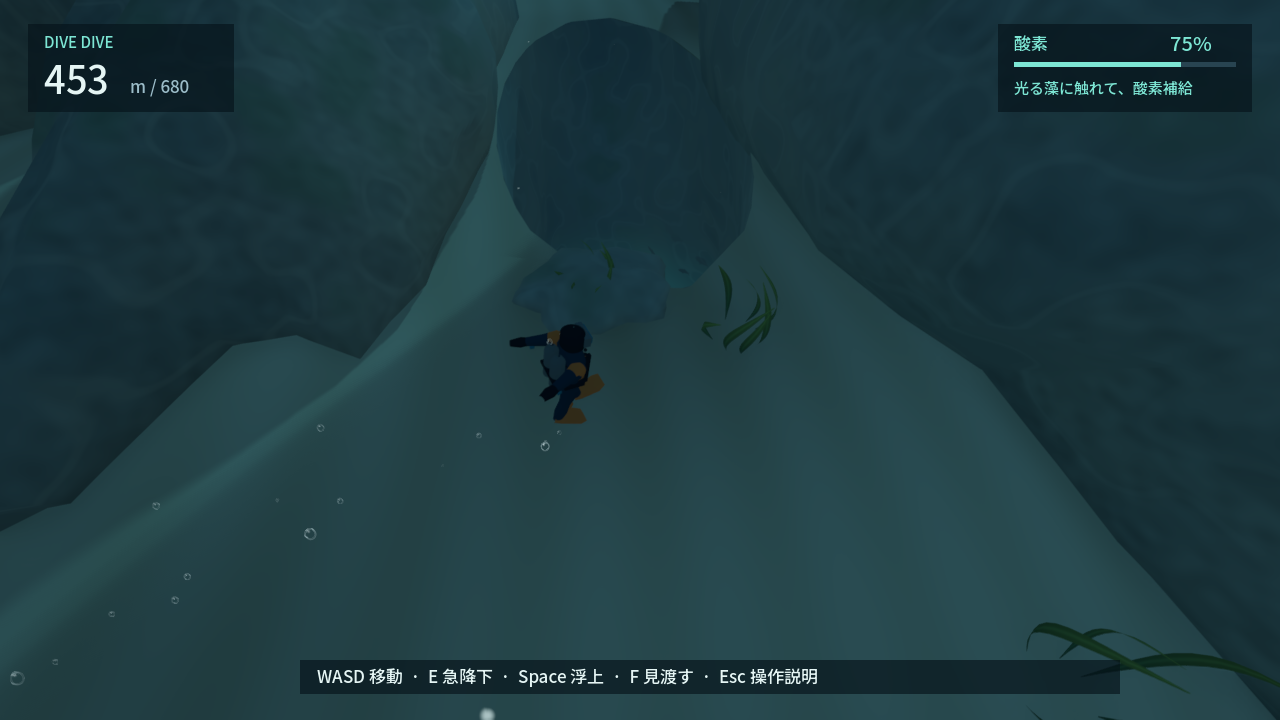
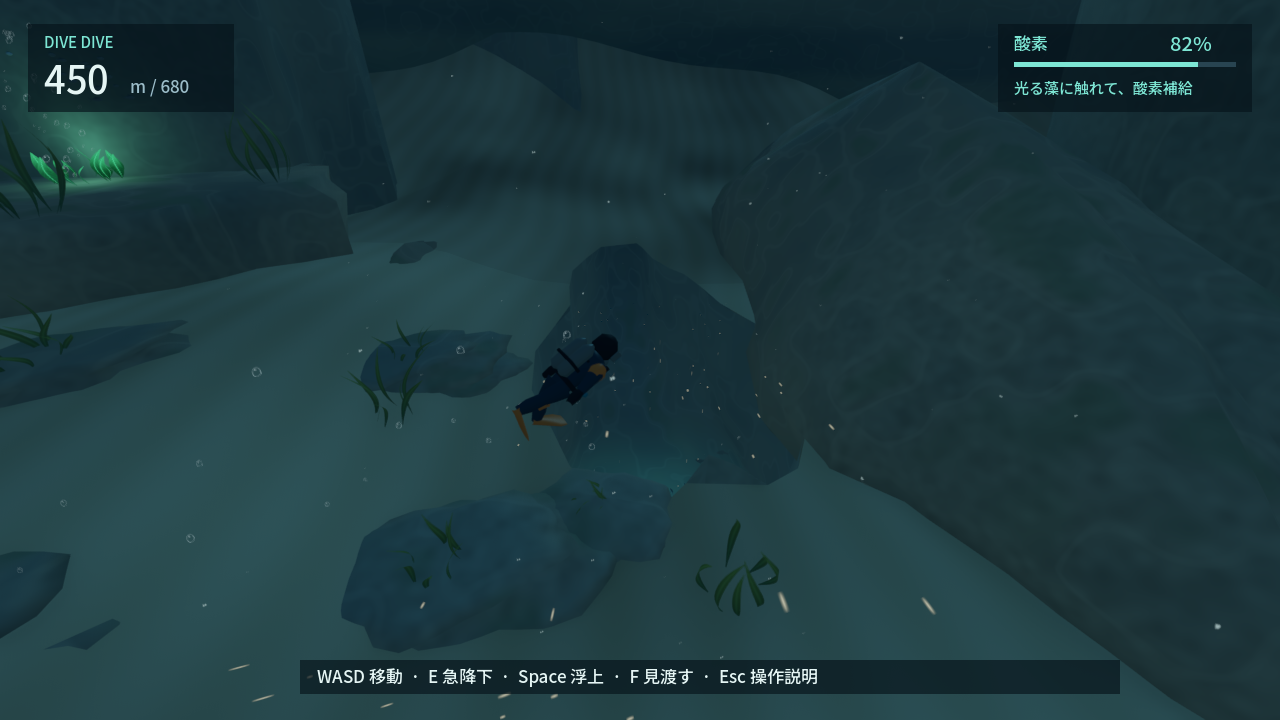
Connect L1 cliff shelves and reveal shallow destinations and seabed flow

diff --git a/projects/001-first-release/REVIEW_PACKET.md b/projects/001-first-release/REVIEW_PACKET.md
@@ -1,29 +1,38 @@
-> 最新L1試作では岩橋・断層・盆地・潮流を変更。以下の保存画像は撮影元commit時点の参考です。今回の画面確認は非追跡artifactsの3視点のみ。依頼されたフェーズの画像を次回置き換えます。
-
 # DIVE DIVE — REVIEW PACKET
 
-**対象: L1-P0〜L1-G / L2-P0〜P2の圧縮試作。CHANGES / 定期再開PAUSED。** 人間レビュー要求ではない。計画と現行位置は[PROJECT_STATE](PROJECT_STATE.md)、全体構成は[HUMAN_DIRECTION](HUMAN_DIRECTION.md)。
+**L1-P1〜L1-Gの指定試作 / CHANGES / 定期再開PAUSED**。HUMAN_REVIEWへの提出ではありません。
 
-## 現行代表画像（今回の整理で新規撮影はしていない）
+## 今回の6枚
 
-| 対象 | 画像 | 撮影元・条件 |
+この文書と同じ制作コミットのForward+（RTX 4070 SUPER）、1280×720。基準版bd57759から変更。すべてゲームの通常三人称カメラ/FOV76、俯瞰F・専用撮影カメラなし。マウスで可能なyaw/pitchの見回しを固定した再現撮影です。
+
+| 対象 | 画面 | 実深度・撮影条件 |
 | --- | --- | --- |
-| L1-P0 | [入水](review/L1-P0/entry.png) | ef64c2a制作サイクルのForward+。通常入力/5m・pitch=-.35。最新撮り直しではない |
-| L1-P1 | [浅海の海底棚](review/L1-P1/middle.png) | fa172a9制作サイクル。比較用位置から実入力で移動・見回した画面 |
-| L1-G | [裂け目への接近](review/L1-G/entry.png) | 00612b2制作サイクル。約450m補給地点を開始位置に設定し、その後実入力で到達/見回し |
-| L2-P0 | [狭い暗闇](review/L2-P0/middle.png) | 同上、約527m。水球と近い岩盤 |
-| L2-P2 | [初遭遇](review/L2-P2/entry.png) | 同上、約645m。暗闇の腕/胴体 |
+| L1-P1 | [入水直後](review/L1-P1/entry.png) | 4m、桟橋から入力移動、yaw0 / pitch-.25 |
+| L1-P1 | [次の場所](review/L1-P1/middle.png) | 26m、同じ入水から継続、yaw-.2 / pitch-.25 |
+| L1-P2 | [断層と上下の棚](review/L1-P2/entry.png) | 約160m、局所開始→遊泳、yaw.65 / pitch-.42 |
+| L1-P2 | [岸壁の棚の内側](review/L1-P2/middle.png) | 190m、局所開始→棚へ着地、yaw-.7 / pitch-.3 |
+| L1-P4 | [海底の流れ](review/L1-P4/entry.png) | 約448m、局所開始→砂地を横断、yaw-.65 / pitch-.25 |
+| L1-G | [割れ目へ接近](review/L1-G/entry.png) | 約450m、海底から継続、yaw0 / pitch-.55 |
 
-各フェーズの2〜4枚セットが揃ったという意味ではない。L1-P2/P3/P4とL2-P1単独の現行代表画像は未選定。必要な確認依頼が来た時だけ、指定フェーズの入口/中間/出口/問題を用意する。
+P1入水は区分境界より浅いが、ユーザー指定の「入水後すぐ」の画面として収録。P2/P4の局所開始は位置を設定後、同じプレイヤーphysicsで操作。6枚を海面からの無編集連続プレイとは扱わない。
 
-## 次回の確認方法
+## 何を選ぶ場所か
 
-通常開発は撮影なし。依頼された対象だけ2〜4枚を `review/<ID>/entry.png` などへ保存し、修正後は同名へ置換する。撮影commit・実深度・入力/カメラ条件をこの表へ更新。過去比較と連続画像はGit履歴（整理前は00612b2）で確認できる。
+- 浅海: 魚群が横切る岩窓をくぐる／右の光る藻へ寄る／泡やクラゲのいる低い裂け目を見る。岩窓は実際に通り抜けられる。
+- 岸壁: 上の藻の棚へ浮上する／中段で岸壁の外縁を歩く／その下を泳ぐ。中段を大きな岩体に埋めた案は修正。既存足場の長い円錐状の底も短くし、棚の間を開けた。
+- 海底: 低い露出岩盤と海藻の間を横断し、砂粒が運ばれる方向を追う。丸い管口から不規則な割れ目へ。潮は入口へ寄せて内部で下降し、Spaceで戻れる。
 
-現在はL1の自由→収束と、L2の狭い暗闇→解放→生物の予兆を評価する。経路数・物量・完走だけで品質を認定しない。旧画像は回帰テストの入力ではなく、撮影用テスト本体は保持している。
+## 再現
 
-## 直近のゲーム検証と懸念
+`./dev.ps1 visual-l1 -Capture p1-entry,p1-choice,p2-coast,p2-inside`
 
-00612b2: 桟橋から実入力199.5秒、途中位置設定/救助なし。新区間35確認、既存衝突689・11経路・check/build・CI成功。GPUは画面外・無音・非捕捉。[自己批評](AI_REVIEW.md)。
+`./dev.ps1 visual-l1 -Capture p4-seabed,g-crevice`
 
-L1の岩の大面、L1-G〜L2-P0の管状輪郭、L2-P2のタコの仮モデル感は未解消。予兆の聴感・初見の導線は未評価。第2層全体/ボス戦は未実装。
+出力は非追跡artifacts/l1-views、必要な6枚を上表の固定名へ置換。旧P0/L2画像3枚は参照をここから外して削除、旧P1/Gは置換。Git履歴が旧版の正本。
+
+## 自己批評
+
+見える穴・棚の間を実際に通れる点と、砂が隙間へ流れる方向は改善。一方、大岩体の面の単純さ、浅海のアーチの作り物らしさ、遠くからゲートを発見する難しさは残る。砂の方向は静止画より動いている時に分かる。操作成功から面白さの合格は宣言しない。
+
+検証: 対象入力11、L1操作21、実衝突689、岸壁179、全体200.7秒/biology35成功。lint/既存回帰/経路評価/Windows build・export起動成功。対象コミットのCIはGitHub Actionsを参照。

diff --git a/projects/001-first-release/PROJECT_STATE.md b/projects/001-first-release/PROJECT_STATE.md
@@ -6,7 +6,7 @@
 
 ## 現在遊べる範囲
 
-海上→32mの岩盤・段丘→浅海の岩橋を歩く/下の湾を潮流で抜ける→80〜110mの浅い海底と谷→160mから断層/隆起した岸壁→約450mの窪んだ砂の海底→一つの岩の隙間→曲がる暗い狭路→約585mで巨大空間へ→タコとの遭遇→約680mの水球まで。同じシーン内で繋がる。第2層全体やボス戦は作っていない。
+海上→魚群が横切る岩窓・右の藻・下の裂け目が見える32mの岩盤→浅海の岩橋を歩く/下の湾を潮流で抜ける→80〜110mの浅い海底と谷→160mから断層/隆起した岸壁→約450mの窪んだ砂の海底→一つの岩の隙間→曲がる暗い狭路→約585mで巨大空間へ→タコとの遭遇→約680mの水球まで。同じシーン内で繋がる。第2層全体やボス戦は作っていない。
 
 水球は通過可能で触れると即補給。自然沈降5m/s、E15m/s・酸素2.5倍、Space6m/s、水平7m/s。酸素0の救助は訪問済みの浅い安全地点へ戻る。水球帰還後も泳ぎ続けられ、見えない足場は作らない。
 
@@ -20,10 +20,10 @@
 | --- | --- | --- |
 | L1-P0 | 海上〜約30m・実装あり | 入水の第一印象 |
 | L1-P1 | 約30〜160m・岩橋/下側の湾と潮流を試作 | 人工的な角張り、寄り道の第一印象 |
-| L1-P2 | 約160〜330m・断層/隆起を追加 | 大形状の自然さと既存岸壁への馴染み |
-| L1-P3 | 約330〜450m・厚い断層を重ねた圧縮試作 | 深部の独立した景観変化は未完成 |
-| L1-P4 | 約450〜457m・周辺が上がる盆地へ | 海底へ到達した印象、最深の裂け目の自然な見え方 |
-| L1-G | 約457〜478m・入口へ寄せる流れと下降流 | 岩盤の自然さ、砂の流れの質 |
+| L1-P2 | 約160〜330m・岸壁に接続する上下の棚とその間の遊泳 | 大形状の自然さと既存岸壁への馴染み |
+| L1-P3 | 約330〜450m・隆起へ上/下の岩床を接続 | 深部の独立した景観変化は未完成 |
+| L1-P4 | 約450〜457m・盆地、低い露出岩盤、床を運ばれる砂 | 海底へ到達した印象、最深の裂け目の自然な見え方 |
+| L1-G | 約457〜478m・不規則な割れ目、流入する砂と下降流 | 岩盤の自然さ、砂の流れの質 |
 | L2-P0 | 約478〜585m・暗い曲がる狭路 | 管状反復、水球の間合い |
 | L2-P1 | 約585〜620m・巨大空間へ | 解放感と遠い予兆 |
 | L2-P2 | 約620〜680m・タコ遭遇試作 | 均一な腕/仮モデル、段階的認識 |
@@ -33,9 +33,9 @@
 
 ## 検証と管理
 
-今回のL1試作: 岩橋の上を歩く/下を潮流で抜ける、断層・隆起、盆地の最深部へ収束する砂地と流入する潮流。通常/Eの実着地、潮流への参加/離脱、Spaceで裂け目から戻る対象21確認成功。海面から生物層終端まで200.7秒、途中位置変更/救助/ロードなし、biology 35確認成功。既存岸壁179確認も成功。lint・依存確認、ルール/シーン/実衝突/既存探索/経路評価も成功（失敗箇所の修正後は関連試験だけ再実行）。Windows exportと配布EXEのheadless起動成功。最初の形状案で歩行路/潮流出口を塞いだため、根元を沖へ移し、出口の侵食された輪郭を残した。
+今回（DD-086）: 浅海の岩窓/魚群、多段の岸壁と足場の接続、海底の露出岩盤/床沿いの砂粒、割れ目の縁を更新。新規入力11確認、既存L1操作21、岸壁179、実衝突689成功。海面から生物層終端まで200.7秒、途中位置変更/救助/ロードなし、biology35成功。既存ルール567/シーン457/岩面2688/探索等、経路評価/復帰も成功。lint、Windows export、配布EXE headless起動成功。上段が下段を覆うため試走は外縁を回る入力へ更新し、頭上を塞いだ厚みは修正。検証を通すためのすり抜けは入れていない。
 
-内部GPU確認はL1-P1/P3/Gの3視点だけ。同じ一時ファイルを上書きし、repoへ画像を追加蓄積していない。保存済みREVIEW_PACKET画像は撮影元commitを持つ変更前の参考で、新版の見た目と混同しない。形の人工的な角張りは残る。テスト成功を面白さ/完成品質の認定にしない。
+依頼された通常三人称6枚を[REVIEW_PACKET](REVIEW_PACKET.md)へ。前版のP1/G画像は置換、参照不要なP0/L2画像3枚を削除。P1は桟橋から連続入力、P2/P4は局所開始後の入力確認。大岩体の面の単純さ、アーチの人工感、ゲートの遠距離発見は課題。品質CHANGESで、面白さの合格や人間レビュー待ちを宣言しない。
 
 ## 次の対象
 

diff --git a/projects/001-first-release/AI_REVIEW.md b/projects/001-first-release/AI_REVIEW.md
@@ -1,13 +1,11 @@
 # DIVE DIVE — AI REVIEW
 
-2026-09-21 / **CHANGES・SELF_CONTINUE（指定作業内）/ 定期再開PAUSED**。実装者の自己批評。
+2026-09-21 / **CHANGES / 定期再開PAUSED**。実装者自身の批評。今回の指定はL1-P1〜L1-G、HUMAN_REVIEW提出ではない。
 
-今回: L1-P1の単調さ、P2/P3の断層/隆起、P4/Gの最深部への収束と潮流。
+- P1: 入水から見える魚群の岩窓を採用。直線的な屋根型は曲線へ修正。穴をくぐる入力が成立し、右の藻/下の裂け目と違う行動になる。ただしアーチが模型的で、遠景の単純さも残る。
+- P2/P3: 足場に岩体を足すだけの案は、大岩に棚が隠れた。岩体を奥へ寄せ、足場を岸壁へ繋ぐ岩床へ変更。足場の円錐状の底は短くし、上下の棚の間を開けた。既存直降下の試走は上段に着地したため外縁を回る経路へ変更。中段が下段の頭上を塞いだ点は厚み14→8mに修正。新しい床への実接地と間の遊泳を確認。
+- P4/G: 空中の長い流線案を捨て、実床に沿って移動する砂粒へ。低い露出岩盤を砂地に埋め、丸い管口を不規則な割れ目へ変更。砂の動きと実際の流入方向が一致。遠くからは穴がまだ見つけにくく、岩面の大きな平面も残る。
 
-- 浅海: 上の岩橋をSpaceなしで歩く案と、下の湾を横向きの流れで抜ける案を残す。近い岩へ降りるだけとは操作が変わる。最初の案の棒状の断面は太さ・張り出しを変えて修正。ただし岩橋の人工的な角張りは未解消。
-- 中深部: 丸い岩体をずれた地層へ、大岩体を隆起した根元として追加。既存の歩行路・潮流離脱路を塞いだ案は不採用。根元を沖へ移し、出口だけは侵食された従来形状を保った。密度だけを優先しない。
-- 終端: 一様な砂面から周辺が高い盆地へ。入口の片側を低くし、最深部の隙間へ流れる砂の筋と実際の流れを合わせた。入口では横へ、内部では下へ運ぶ。Spaceで戻れる。砂の筋は方向が読めるが、まだ演出的な線に見える。
+通常カメラ6枚を実GPUで確認。P1は前版と同位置/角度、P2は見回し位置も調整したため厳密な同条件比較ではない。局所操作11・衝突689・岸壁179・連続200.7秒の全体試走35確認成功。6枚は連続動画ではなく、撮影条件はREVIEW_PACKETに明記。
 
-内部GPUは変更3視点を上書き比較（artifacts/l1-places、非追跡）。P1は構図を上/下の選択が読める位置へ直したため、旧撮影と厳密な同条件比較ではない。P3/Gは同条件で確認。代表画像をrepoへ増やさない。既存のREVIEW_PACKET画像は変更前の参考。
-
-対象操作21確認、岸壁179確認、海面から200.7秒の連続試走とbiology35確認成功。隙間を見つけやすいか・寄り道が楽しいかは自動成功から断言しない。人間レビュー要求なし。次はL1-P1の最初の選択、断層の自然さ、L1-Gの狭窄品質へ。
+景観密度: 上/中/下の棚が同じ岸壁に繋がる。プレイアブル密度: 旧足場から新しい岩床へ歩け、棚の下も通れる。初見の迷い方や楽しさは自動試走から断定しない。次はユーザーの画像指摘に従い対象フェーズを絞る。

diff --git a/projects/001-first-release/TASKS.md b/projects/001-first-release/TASKS.md
@@ -6,6 +6,7 @@
 
 | ID | 対象 | 優先度 | 状態 | 次の作業・完了条件 |
 | --- | --- | --- | --- | --- |
+| DD-086 | L1-P1〜L1-G（今回指定） | 最優先 | DONE（試作・品質CHANGES） | 魚群の岩窓、岸壁へ繋がる6岩床、棚の間の遊泳、露出岩盤と床沿いの砂、不規則な隙間。新規入力11/衝突689成功。通常視点6枚へ置換。大岩体の単純さとゲートの遠距離発見は継続課題 |
 | DD-085 | L1-P1 / L1-P2 / L1-P3 / L1-P4 / L1-G（今回指定） | 最優先 | DONE（試作） | 岩橋の歩行/下側の潮流、隆起した岩体と断層、最深の裂け目へ収束する盆地と砂の流れ。棒状案と通路を塞ぐ配置を修正、入力21確認/既存岸壁179確認/全体連続試走成功。品質合格ではない |
 | DD-078 | L1-G | 最優先 | TODO | 均一な100×32m断面の管を、左右/天井/床の2〜4個の大岩体へ。幅・高さ・片側の抜け・低い天井・短い空洞・斜めの裂け目を変え、1ルートのまま自然発見→かいくぐる→L2-P0の狭さへ繋ぐ |
 | DD-081 | L1-P4 | 高 | TODO | 砂丘/侵食溝/岩肩/崩落/海藻帯/露出岩盤から2〜4の場所を作り、生成平面＋切り抜き感を減らす。歩行・縁・遊泳を読ませ、観察/俯瞰/短縮など酸素以外の寄り道の見返りを持たせ、最後はL1-Gへ収束 |

diff --git a/projects/001-first-release/HUMAN_DIRECTION.md b/projects/001-first-release/HUMAN_DIRECTION.md
@@ -61,3 +61,7 @@ PC非干渉: headless/background中心、必要なGPUは画面外・無音・非
 ## 今回の制作指示（2026-09-21）
 
 L1-P1は近い岩へ降りるだけの単調さを崩し、誇張した寄り道・回り込み・潮流を大胆に試す。L1-P2/P3は断層と隆起で地形に厚みを出す。L1-P4は周辺より低い海底へ収束し、その最深部に唯一のL1-G裂け目がある構図へ。裂け目には実際に泳者へ作用する潮流と流れの手掛かりを置く。今回指定された範囲を一つの制作サイクルで扱い、自動再開は停止のまま。
+
+## 今回の集中改善（2026-09-21追記）
+
+L1-P1〜L1-Gのみ。P1は入水後に2〜3の見に行きたい場所。P2/P3は岸壁と足場を繋ぎ、上棚・中段通路・下の裂け目を同じ空間へ重ねる。P4は砂の海底到達、Gは最深部の岩盤隙間へ砂/粒子/植物と実際の潮流で誘う。UI矢印なし。通常プレイ視点のP1×2・P2またはP3×2・P4/G×2を置換保存する。HUMAN_REVIEW提出ではなく、定期再開PAUSEDのまま指定試作。
